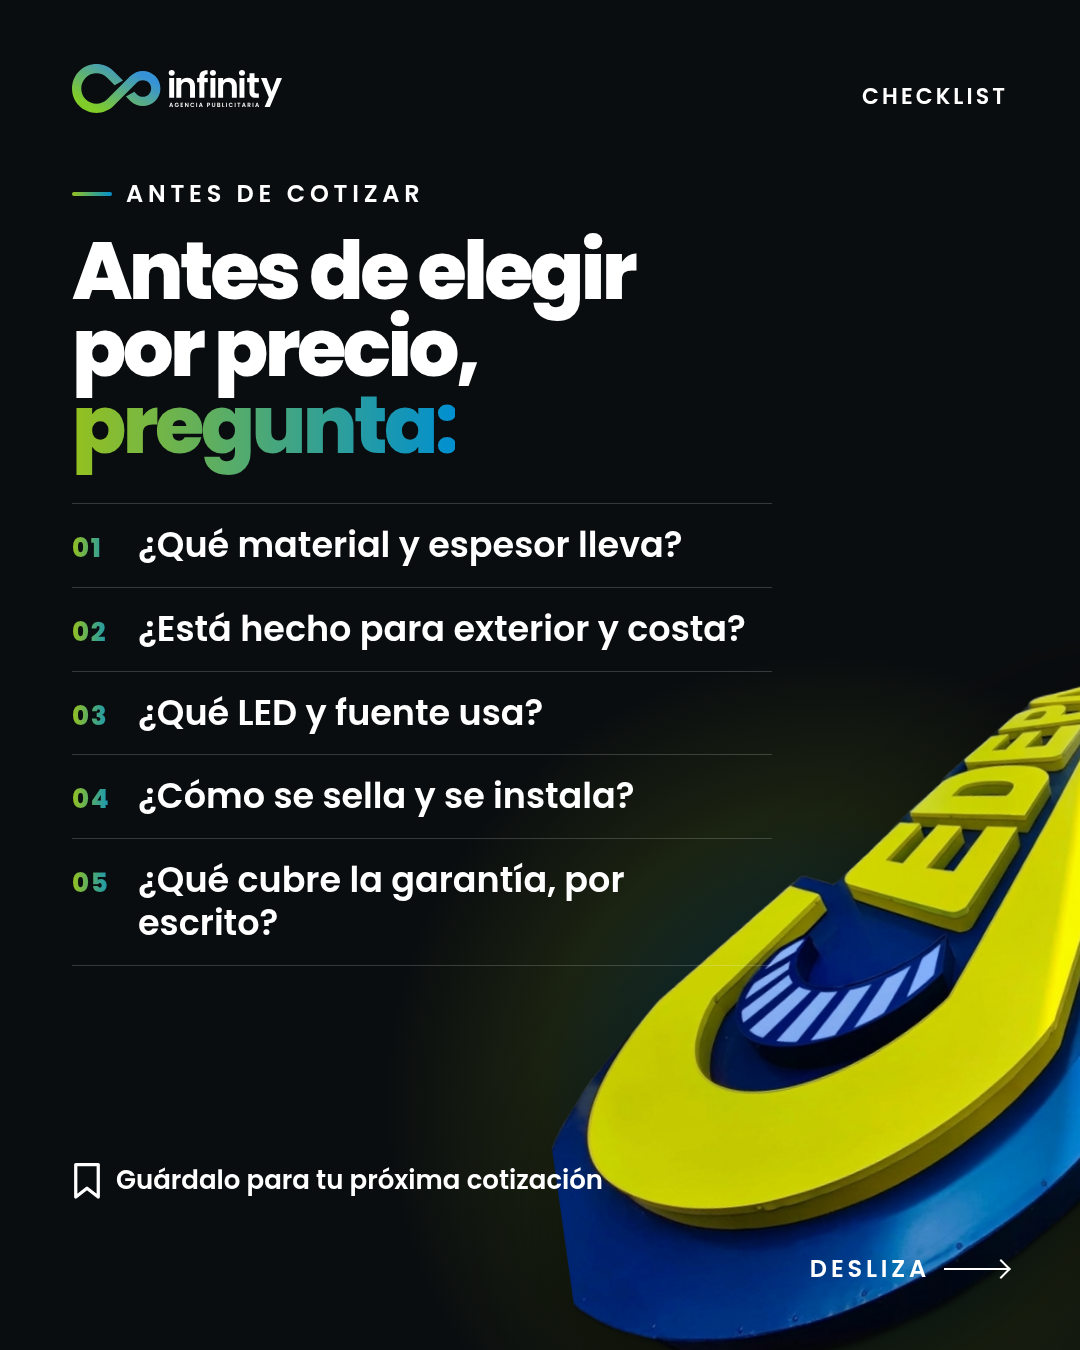
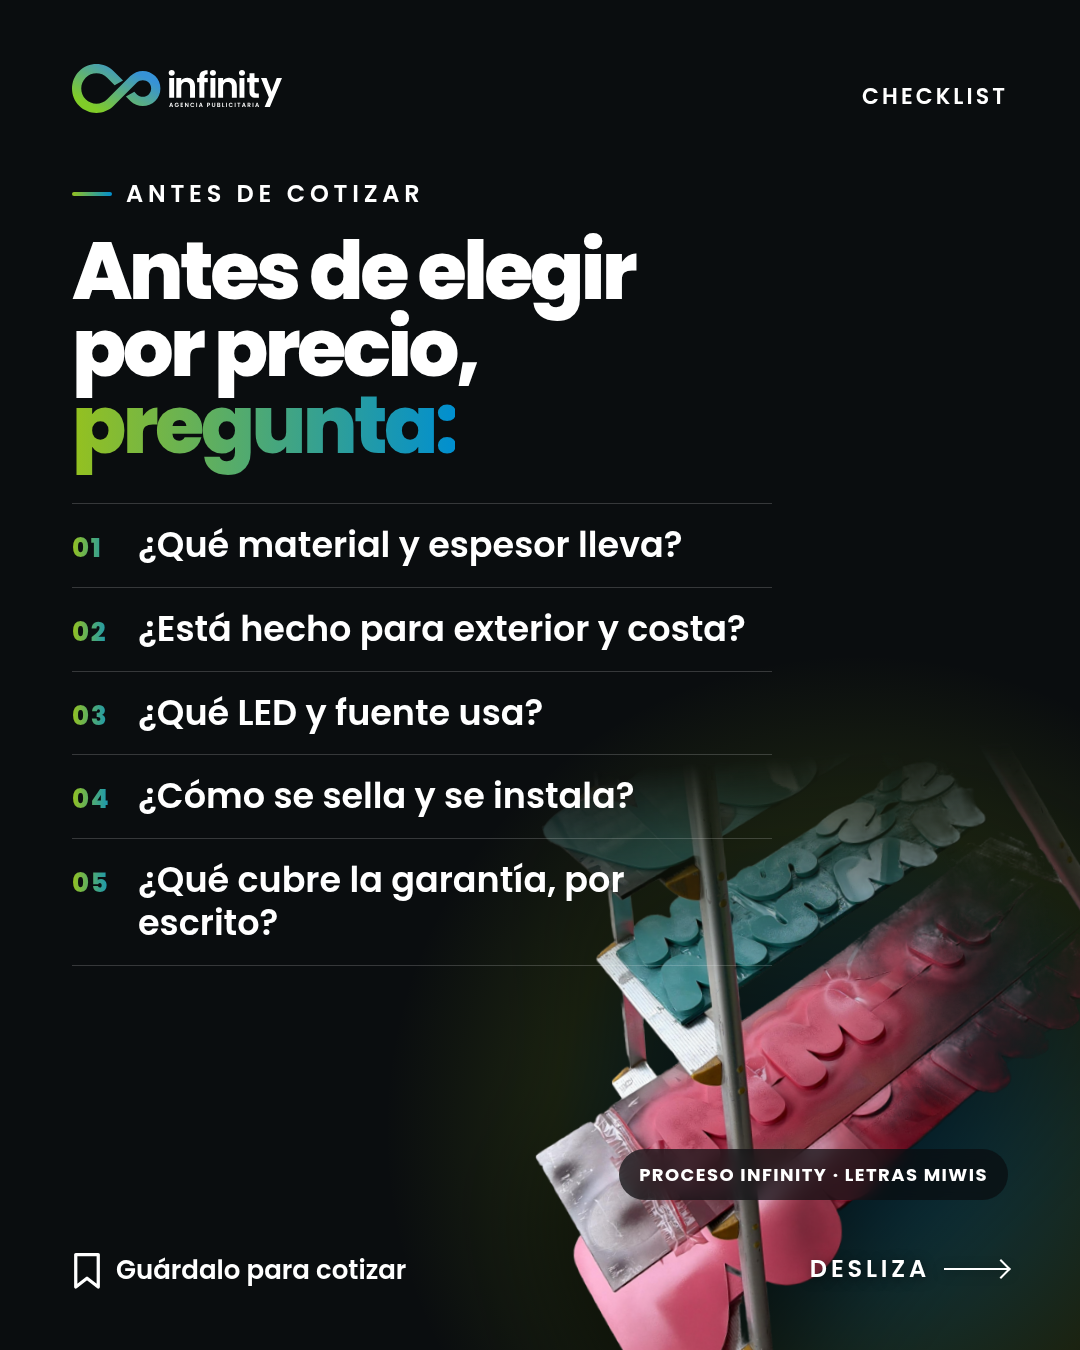
Slide 06: letras Miwis en proceso como protagonista en lugar de Cedepa
Recorte con fundido superior incorporado, etiqueta de proyecto y
'Guárdalo para cotizar' en el pie para liberar la zona de la imagen.

Claude-Session: https://claude.ai/code/session_01FBFGm1JsRirbfZsjqkE4ND

Changed region(s): [[0.0611, 0.4978, 1.0, 1.0], [0.0611, 0.9333, 0.3667, 0.9644]]

diff --git a/entregas/calidad-precio/src/carrusel-editable.html b/entregas/calidad-precio/src/carrusel-editable.html
@@ -117,7 +117,7 @@ h1, h2 { font-weight: 800; letter-spacing: -0.045em; line-height: .96; }
 #s5 .nuance strong { font-weight: 700; color: #000; }
 
 /* ---------- 06 CHECKLIST ---------- */
-#s6 .hero { position: absolute; right: -250px; bottom: -150px; width: 800px; transform: rotate(-8deg); z-index: 1; filter: drop-shadow(0 40px 60px rgba(0,0,0,.6)); }
+#s6 .hero { position: absolute; right: -70px; bottom: -60px; width: 640px; transform: rotate(-4deg); z-index: 1; filter: drop-shadow(0 40px 60px rgba(0,0,0,.6)); }
 #s6 .hero img { width: 100%; display: block; }
 #s6 .glow { position: absolute; right: -200px; bottom: -200px; width: 900px; height: 900px; border-radius: 50%; background: radial-gradient(circle, rgba(0,143,208,.35), rgba(149,193,31,.12) 45%, rgba(10,13,15,0) 70%); }
 #s6 .copy { position: absolute; top: 176px; left: 72px; width: 700px; z-index: 3; }
@@ -126,10 +126,10 @@ h1, h2 { font-weight: 800; letter-spacing: -0.045em; line-height: .96; }
 #s6 li { display: flex; gap: 22px; align-items: baseline; padding: 20px 0; border-top: 1px solid rgba(255,255,255,.18); font-size: 35px; font-weight: 600; line-height: 1.22; }
 #s6 li:last-child { border-bottom: 1px solid rgba(255,255,255,.18); }
 #s6 li span { font-size: 26px; font-weight: 800; letter-spacing: .06em; min-width: 44px; }
-#s6 .save { position: absolute; left: 72px; bottom: 150px; z-index: 3; display: flex; align-items: center; gap: 14px; font-size: 26px; font-weight: 600; }
+#s6 .save { position: absolute; left: 72px; bottom: 60px; z-index: 3; display: flex; align-items: center; gap: 14px; font-size: 26px; font-weight: 600; }
 #s6 .save svg { width: 30px; }
 #s6 .cap { position: absolute; right: 72px; bottom: 150px; z-index: 3; }
-#s6 .cap .pill { background: rgba(255,255,255,.14); color: #fff; backdrop-filter: blur(8px); font-size: 19px; }
+#s6 .cap .pill { background: rgba(10,13,15,.72); color: #fff; font-size: 18px; padding: 12px 20px; }
 
 /* ---------- 07 EVIDENCIA ---------- */
 #s7 .copy { position: absolute; top: 176px; left: 72px; right: 72px; z-index: 3; }
@@ -280,7 +280,8 @@ body.capa-bottom #s2 > :not(.giant) { visibility: hidden; }
 <!-- 06 CHECKLIST -->
 <section data-document-role="page" data-label="calidad-06-checklist" class="slide night" id="s6">
   <div class="glow"></div>
-  <div class="hero"><img src="https://raw.githubusercontent.com/williamstuarez0/INFINTYREDES/claude/funny-dijkstra-7m2wxz/entregas/calidad-precio/src/img/cedepa-c-cutout.png" alt=""></div>
+  <div class="hero"><img src="https://raw.githubusercontent.com/williamstuarez0/INFINTYREDES/claude/funny-dijkstra-7m2wxz/entregas/calidad-precio/src/img/miwis-letras-cutout.png" alt=""></div>
+  <div class="cap"><div class="pill">Proceso Infinity · Letras Miwis</div></div>
   <img class="logo" src="https://raw.githubusercontent.com/williamstuarez0/INFINTYREDES/claude/funny-dijkstra-7m2wxz/assets/brand/logo-horizontal-gradient-negative.svg" alt="">
   <div class="handle">Checklist</div>
   <div class="copy">
@@ -294,7 +295,7 @@ body.capa-bottom #s2 > :not(.giant) { visibility: hidden; }
       <li><span class="grad">05</span>¿Qué cubre la garantía, por escrito?</li>
     </ol>
   </div>
-  <div class="save"><svg viewBox="0 0 24 30"><path d="M3 2h18v26l-9-7-9 7z" fill="none" stroke="#fff" stroke-width="2.6" stroke-linejoin="round"/></svg>Guárdalo para tu próxima cotización</div>
+  <div class="save"><svg viewBox="0 0 24 30"><path d="M3 2h18v26l-9-7-9 7z" fill="none" stroke="#fff" stroke-width="2.6" stroke-linejoin="round"/></svg>Guárdalo para cotizar</div>
   <div class="foot"><span class="note"></span><span class="swipe">Desliza <i></i></span></div>
 </section>
 

diff --git a/entregas/calidad-precio/src/carrusel.html b/entregas/calidad-precio/src/carrusel.html
@@ -117,19 +117,21 @@ h1, h2 { font-weight: 800; letter-spacing: -0.045em; line-height: .96; }
 #s5 .nuance strong { font-weight: 700; color: #000; }
 
 /* ---------- 06 CHECKLIST ---------- */
-#s6 .hero { position: absolute; right: -250px; bottom: -150px; width: 800px; transform: rotate(-8deg); z-index: 1; filter: drop-shadow(0 40px 60px rgba(0,0,0,.6)); }
+#s6 .hero { position: absolute; right: -70px; bottom: -60px; width: 640px; transform: rotate(-4deg); z-index: 1; filter: drop-shadow(0 40px 60px rgba(0,0,0,.65)); }
 #s6 .hero img { width: 100%; display: block; }
-#s6 .glow { position: absolute; right: -200px; bottom: -200px; width: 900px; height: 900px; border-radius: 50%; background: radial-gradient(circle, rgba(0,143,208,.35), rgba(149,193,31,.12) 45%, rgba(10,13,15,0) 70%); }
+#s6 .glow { position: absolute; right: -260px; bottom: -260px; width: 960px; height: 960px; border-radius: 50%; background: radial-gradient(circle, rgba(0,143,208,.35), rgba(149,193,31,.12) 45%, rgba(10,13,15,0) 70%); }
 #s6 .copy { position: absolute; top: 176px; left: 72px; width: 700px; z-index: 3; }
 #s6 h2 { font-size: 80px; margin: 22px 0 40px; }
 #s6 ol { list-style: none; }
 #s6 li { display: flex; gap: 22px; align-items: baseline; padding: 20px 0; border-top: 1px solid rgba(255,255,255,.18); font-size: 35px; font-weight: 600; line-height: 1.22; }
 #s6 li:last-child { border-bottom: 1px solid rgba(255,255,255,.18); }
 #s6 li span { font-size: 26px; font-weight: 800; letter-spacing: .06em; min-width: 44px; }
-#s6 .save { position: absolute; left: 72px; bottom: 150px; z-index: 3; display: flex; align-items: center; gap: 14px; font-size: 26px; font-weight: 600; }
+#s6 .save { position: absolute; left: 72px; bottom: 60px; z-index: 3; display: flex; align-items: center; gap: 14px; font-size: 26px; font-weight: 600; }
 #s6 .save svg { width: 30px; }
 #s6 .cap { position: absolute; right: 72px; bottom: 150px; z-index: 3; }
-#s6 .cap .pill { background: rgba(255,255,255,.14); color: #fff; backdrop-filter: blur(8px); font-size: 19px; }
+#s6 .foot { text-shadow: 0 2px 12px rgba(0,0,0,.6); }
+#s6 .foot .swipe i { box-shadow: 0 2px 12px rgba(0,0,0,.6); }
+#s6 .cap .pill { background: rgba(10,13,15,.72); color: #fff; backdrop-filter: blur(8px); font-size: 18px; padding: 12px 20px; }
 
 /* ---------- 07 EVIDENCIA ---------- */
 #s7 .copy { position: absolute; top: 176px; left: 72px; right: 72px; z-index: 3; }
@@ -267,7 +269,8 @@ body.capa-bottom #s2 > :not(.giant) { visibility: hidden; }
 <!-- 06 CHECKLIST -->
 <section class="slide night" id="s6">
   <div class="glow"></div>
-  <div class="hero"><img src="img/cedepa-c-cutout.png" alt=""></div>
+  <div class="hero"><img src="img/miwis-letras-cutout.png" alt=""></div>
+  <div class="cap"><div class="pill">Proceso Infinity · Letras Miwis</div></div>
   <img class="logo" src="../../../assets/brand/logo-horizontal-gradient-negative.svg" alt="">
   <div class="handle">Checklist</div>
   <div class="copy">
@@ -281,7 +284,7 @@ body.capa-bottom #s2 > :not(.giant) { visibility: hidden; }
       <li><span class="grad">05</span>¿Qué cubre la garantía, por escrito?</li>
     </ol>
   </div>
-  <div class="save"><svg viewBox="0 0 24 30"><path d="M3 2h18v26l-9-7-9 7z" fill="none" stroke="#fff" stroke-width="2.6" stroke-linejoin="round"/></svg>Guárdalo para tu próxima cotización</div>
+  <div class="save"><svg viewBox="0 0 24 30"><path d="M3 2h18v26l-9-7-9 7z" fill="none" stroke="#fff" stroke-width="2.6" stroke-linejoin="round"/></svg>Guárdalo para cotizar</div>
   <div class="foot"><span class="note"></span><span class="swipe">Desliza <i></i></span></div>
 </section>
 
